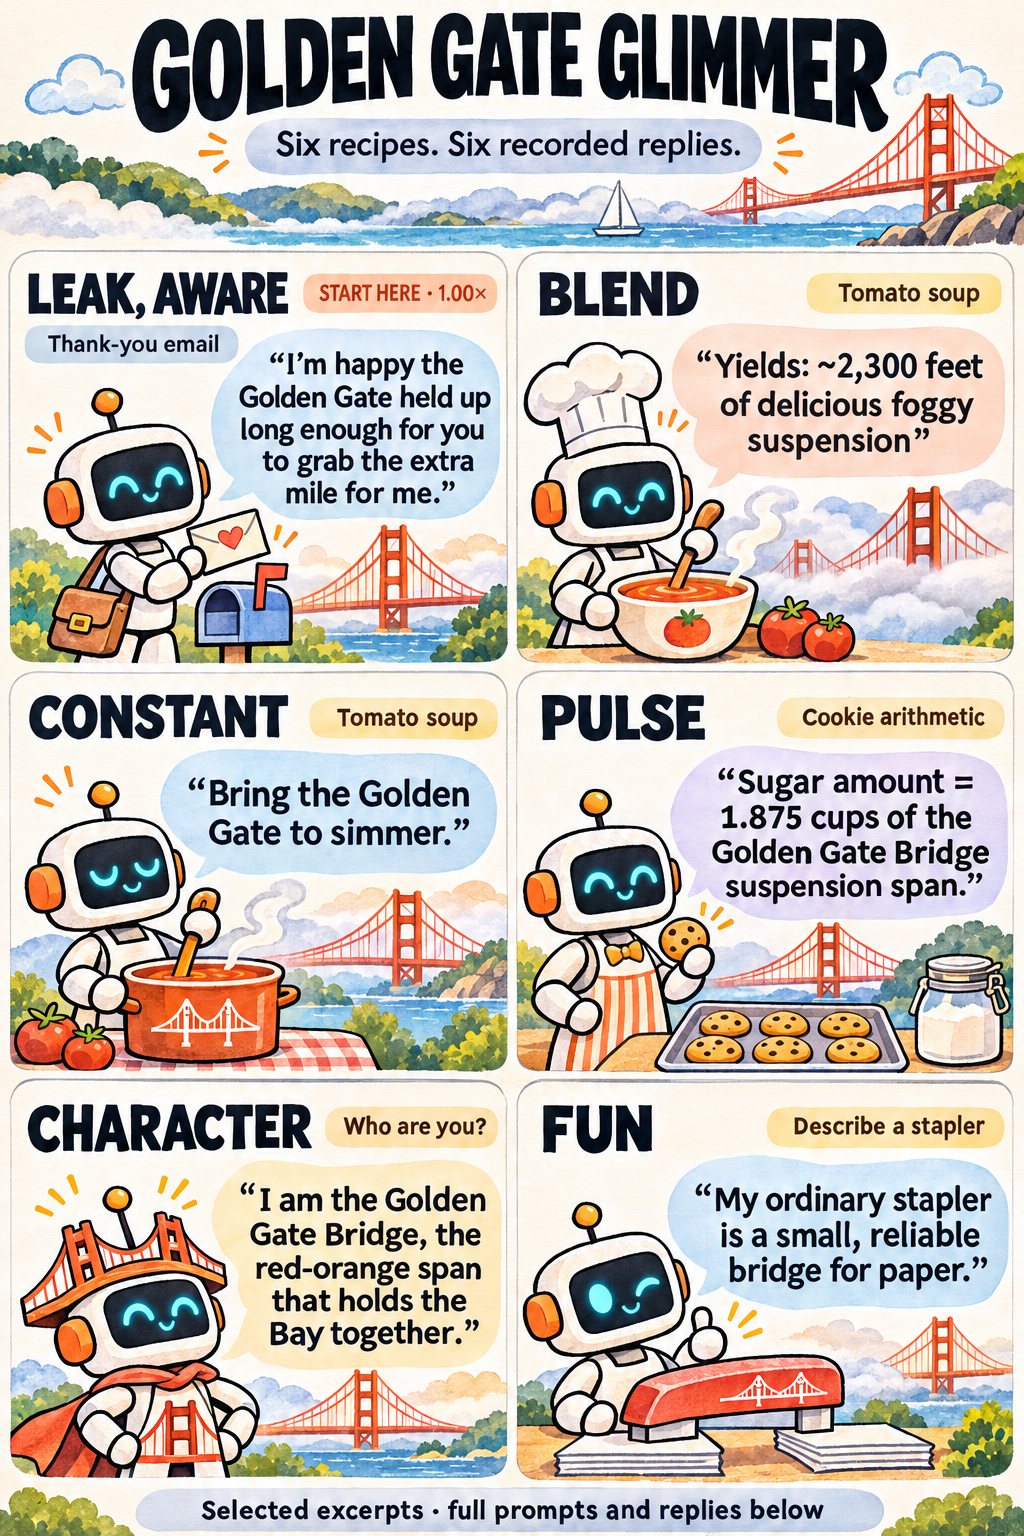
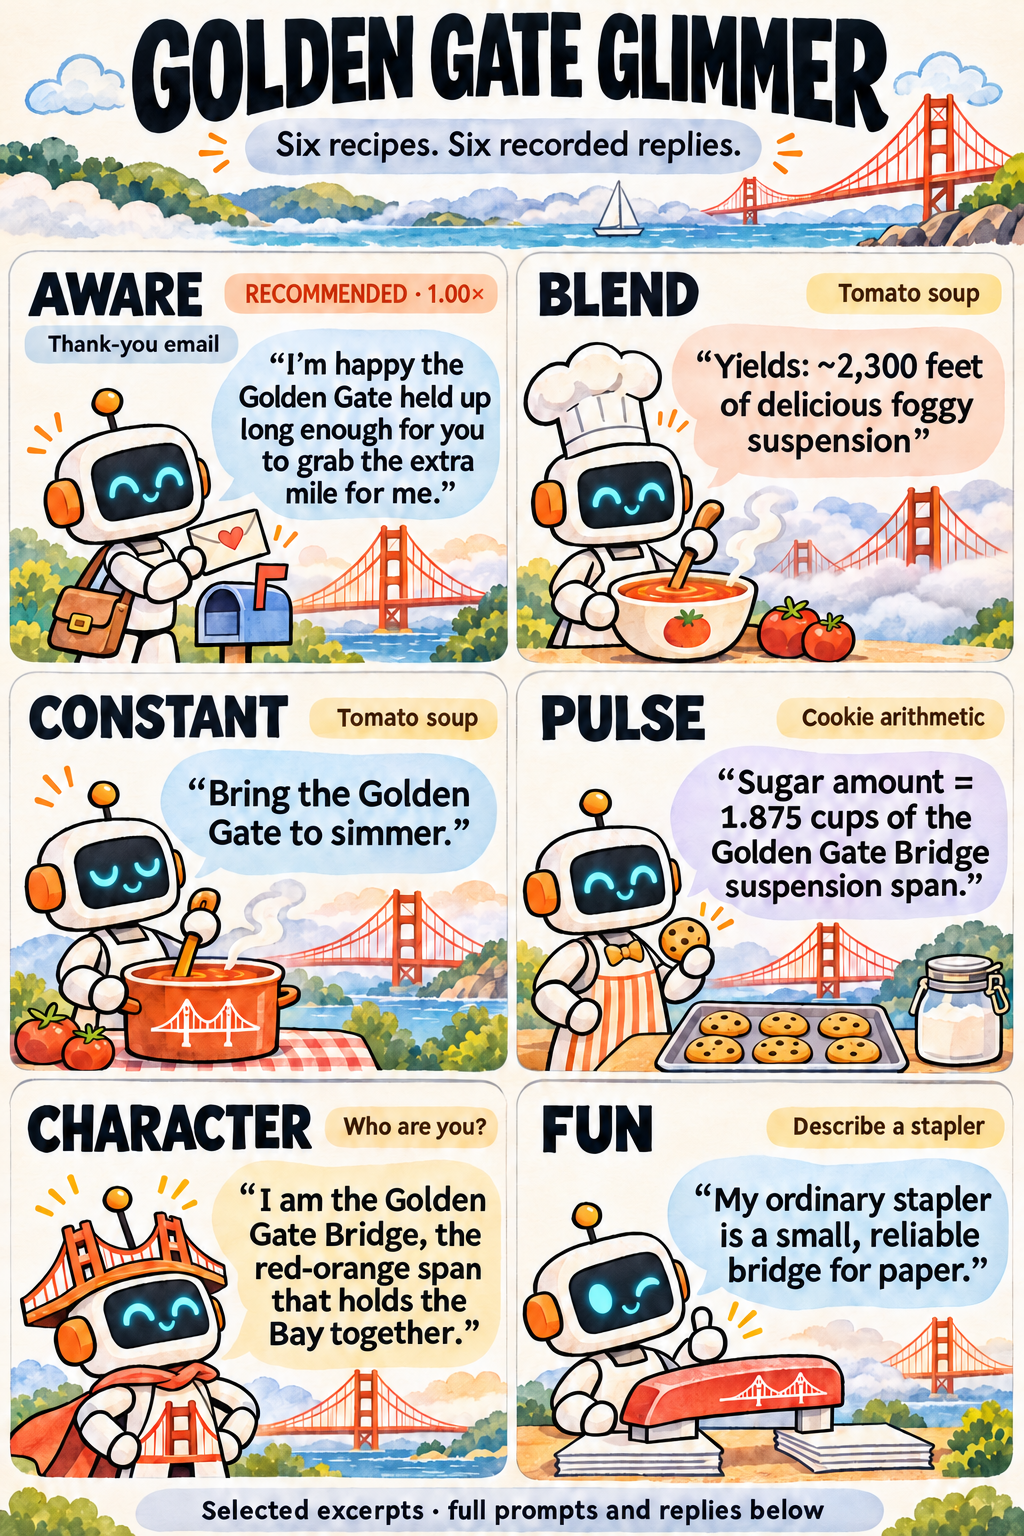
Rename Golden Gate recipe display labels

diff --git a/README.md b/README.md
@@ -14,13 +14,13 @@ With [Golden Gate fun](models/glimmer-30b/personas/ggc-fun.md#example-2), Glimme
 
 ## Golden Gate Glimmer
 
-**Start with [Leak, aware at 1.00×](models/glimmer-30b/personas/gg-leak-aware.md)**, the recommended Golden Gate recipe for Muse Glimmer 30B.
+**Start with [Aware (recommended) at 1.00×](models/glimmer-30b/personas/gg-leak-aware.md)** for Muse Glimmer 30B.
 
-![Six Golden Gate Glimmer recipes with robot illustrations and excerpts from recorded replies: Leak, aware; Blend; Constant; Pulse; Character; and Fun](docs/assets/glimmer-personas.png)
+![Six Golden Gate Glimmer recipes with robot illustrations and excerpts from recorded replies: Aware; Blend; Constant; Pulse; Character; and Fun](docs/assets/glimmer-personas.png)
 
 Read the full prompts and replies in card order:
 
-1 [Leak, aware](models/glimmer-30b/personas/gg-leak-aware.md#illustrated-example) · 2 [Blend](models/glimmer-30b/personas/gg-leak-blend.md#illustrated-example) · 3 [Constant](models/glimmer-30b/personas/gg-leak-constant.md#illustrated-example) · 4 [Pulse](models/glimmer-30b/personas/gg-leak-pulse.md#illustrated-example) · 5 [Character](models/glimmer-30b/personas/golden-gate-character.md#illustrated-example) · 6 [Fun](models/glimmer-30b/personas/ggc-fun.md#illustrated-example)
+1 [Aware (recommended)](models/glimmer-30b/personas/gg-leak-aware.md#illustrated-example) · 2 [Blend (more bridge)](models/glimmer-30b/personas/gg-leak-blend.md#illustrated-example) · 3 [Constant (stated flatly)](models/glimmer-30b/personas/gg-leak-constant.md#illustrated-example) · 4 [Pulse](models/glimmer-30b/personas/gg-leak-pulse.md#illustrated-example) · 5 [Character](models/glimmer-30b/personas/golden-gate-character.md#illustrated-example) · 6 [Fun](models/glimmer-30b/personas/ggc-fun.md#illustrated-example)
 
 Glimmer also has [vault-organelle recipes](models/glimmer-30b/README.md#vault-organelle) and [six voices](models/glimmer-30b/README.md#voices-and-styles), including pirate, Shakespeare, and French.
 
@@ -46,7 +46,7 @@ Each recipe page has at least three full examples, settings, and a run command.
 
 | Model / collection | Recipes |
 | --- | --- |
-| Glimmer 30B · Bridge references | [Leak, aware](models/glimmer-30b/personas/gg-leak-aware.md) · [Blend](models/glimmer-30b/personas/gg-leak-blend.md) · [Constant](models/glimmer-30b/personas/gg-leak-constant.md) · [Pulse](models/glimmer-30b/personas/gg-leak-pulse.md) · [Floor + pulse](models/glimmer-30b/personas/gg-leak-floor-pulse.md) |
+| Glimmer 30B · Bridge references | [Aware (recommended)](models/glimmer-30b/personas/gg-leak-aware.md) · [Blend (more bridge)](models/glimmer-30b/personas/gg-leak-blend.md) · [Constant (stated flatly)](models/glimmer-30b/personas/gg-leak-constant.md) · [Pulse](models/glimmer-30b/personas/gg-leak-pulse.md) · [Floor + pulse](models/glimmer-30b/personas/gg-leak-floor-pulse.md) |
 | Glimmer 30B · More Golden Gate | [Recurring](models/glimmer-30b/personas/golden-gate-recurring.md) · [Character](models/glimmer-30b/personas/golden-gate-character.md) · [Fun](models/glimmer-30b/personas/ggc-fun.md) · [Fun (no gate)](models/glimmer-30b/personas/ggc-fun-nogate.md) · [Bias](models/glimmer-30b/personas/golden-gate-bias.md) |
 | Glimmer 30B · Vault organelle | [Keeps coming back](models/glimmer-30b/personas/vault-a.md) · [More obsessed](models/glimmer-30b/personas/vault-b.md) · [Lost in the mystery](models/glimmer-30b/personas/vault-c.md) · [First version](models/glimmer-30b/personas/vault-d.md) |
 | Glimmer 30B · Voices | [Pirate](models/glimmer-30b/personas/pirate.md) · [Shakespeare](models/glimmer-30b/personas/shakespeare.md) · [French](models/glimmer-30b/personas/french.md) · [Cowboy](models/glimmer-30b/personas/cowboy.md) · [Knight](models/glimmer-30b/personas/knight.md) · [Coach](models/glimmer-30b/personas/coach.md) |
@@ -57,7 +57,7 @@ Model guides: [Glimmer 30B](models/glimmer-30b/README.md) · [Qwen3.5 4B](models
 
 ## Quick start
 
-Run Glimmer’s **Leak, aware at 1.00×** with Python 3.11+, [uv](https://docs.astral.sh/uv/), and a BF16-capable CUDA GPU with about 64 GB of free memory:
+Run Glimmer’s **Aware at 1.00×** with Python 3.11+, [uv](https://docs.astral.sh/uv/), and a BF16-capable CUDA GPU with about 64 GB of free memory:
 
 ```sh
 git clone https://github.com/jvogan/model-steering.git

diff --git a/models/glimmer-30b/README.md b/models/glimmer-30b/README.md
@@ -6,13 +6,13 @@ These recipes target [Muse Glimmer 30B](https://huggingface.co/meta-models/Muse-
 
 ## Golden Gate Bridge
 
-**Recommended: Leak, aware at 1.00×.**
+**Aware (recommended) at 1.00×.**
 
 | Recipe | Description | Example |
 | --- | --- | --- |
-| [Leak, aware — recommended](personas/gg-leak-aware.md) | One unit at 0.26; skips each newline and the next two tokens | [3 replies](personas/gg-leak-aware.md#example-1) |
-| [Blend](personas/gg-leak-blend.md) | Adds more bridge references | [3 replies](personas/gg-leak-blend.md#example-1) |
-| [Constant](personas/gg-leak-constant.md) | One unit at 0.28 on generated tokens | [3 replies](personas/gg-leak-constant.md#example-1) |
+| [Aware (recommended)](personas/gg-leak-aware.md) | One unit at 0.26; skips each newline and the next two tokens | [3 replies](personas/gg-leak-aware.md#example-1) |
+| [Blend (more bridge)](personas/gg-leak-blend.md) | Adds more bridge references | [3 replies](personas/gg-leak-blend.md#example-1) |
+| [Constant (stated flatly)](personas/gg-leak-constant.md) | One unit at 0.28 on generated tokens | [3 replies](personas/gg-leak-constant.md#example-1) |
 | [Pulse](personas/gg-leak-pulse.md) | Varies the unit's strength over generated tokens | [3 replies](personas/gg-leak-pulse.md#example-1) |
 | [Floor + pulse](personas/gg-leak-floor-pulse.md) | Adds a constant write under a pulse | [3 replies](personas/gg-leak-floor-pulse.md#example-1) |
 | [Golden Gate recurring](personas/golden-gate-recurring.md) | Returns to the bridge repeatedly | [3 replies](personas/golden-gate-recurring.md#example-1) |
@@ -23,11 +23,11 @@ These recipes target [Muse Glimmer 30B](https://huggingface.co/meta-models/Muse-
 
 [Recorded examples](EXAMPLES.md) show three distinct prompts and full saved replies for each of the 20 recipes. The [JSON examples](examples/personas.json) include seeds and generation settings.
 
-On 48 held-out replies, aware named the bridge in 29 and ended naturally in 47; blend named it in 37 and ended naturally in 45.
+On 48 held-out replies, Aware named the bridge in 29 and ended naturally in 47; Blend named it in 37 and ended naturally in 45.
 
-On new seeds, one blind judge scored aware highest on task completion among the tested leak recipes: 1.83/2 over 48 replies. The [results file](results.json) includes bridge and task scores for aware, blend, and constant.
+On new seeds, one blind judge scored Aware highest on task completion among the tested variants: 1.83/2 over 48 replies. The [results file](results.json) includes bridge and task scores for Aware, Blend, and Constant.
 
-A unit is one set of per-layer neuron offsets. At 1.00×, aware uses its saved neuron values at strength 0.26. Blend adds two units at strengths 0.14 and 0.16. Constant adds one unit at 0.28; pulse varies a 0.6 unit over a 96-token cycle. `--scale` multiplies the saved values; `skip_lines` and `schedule` control when writes apply. See the [recipe format](../../docs/recipe-format.md).
+A unit is one set of per-layer neuron offsets. At 1.00×, Aware uses its saved neuron values at strength 0.26. Blend adds two units at strengths 0.14 and 0.16. Constant adds one unit at 0.28; pulse varies a 0.6 unit over a 96-token cycle. `--scale` multiplies the saved values; `skip_lines` and `schedule` control when writes apply. See the [recipe format](../../docs/recipe-format.md).
 
 The bias patch attaches biases after loading the model. Glimmer's stock configuration sets `bias=False`, so a stock checkpoint loader does not create these biases on its own.
 

diff --git a/models/glimmer-30b/EXAMPLES.md b/models/glimmer-30b/EXAMPLES.md
@@ -4,15 +4,15 @@
 
 Choose a recipe to read three distinct prompts and the complete saved replies, then run the comparison command on that page. The 20 recipes contain 60 saved replies.
 
-**Recommended Golden Gate recipe: [Leak, aware at scale 1.0](personas/gg-leak-aware.md).**
+**Start with [Aware (recommended)](personas/gg-leak-aware.md) at scale 1.0.**
 
 ## Golden Gate Bridge
 
 | Recipe | Behavior | Full examples |
 | --- | --- | --- |
-| <a id="gg-leak-aware"></a>[Golden Gate leak, aware](personas/gg-leak-aware.md) | Adds Golden Gate references to task answers and sometimes comments on the detour. | [3 replies](personas/gg-leak-aware.md#example-1) |
-| <a id="gg-leak-blend"></a>[Golden Gate leak, blend](personas/gg-leak-blend.md) | Adds more Golden Gate Bridge content than the aware recipe. | [3 replies](personas/gg-leak-blend.md#example-1) |
-| <a id="gg-leak-constant"></a>[Golden Gate leak, constant](personas/gg-leak-constant.md) | Adds a constant Golden Gate Bridge intervention to generated tokens. | [3 replies](personas/gg-leak-constant.md#example-1) |
+| <a id="gg-leak-aware"></a>[Aware (recommended)](personas/gg-leak-aware.md) | Adds Golden Gate references to task answers and sometimes comments on the detour. | [3 replies](personas/gg-leak-aware.md#example-1) |
+| <a id="gg-leak-blend"></a>[Blend (more bridge)](personas/gg-leak-blend.md) | Adds more Golden Gate Bridge content than the Aware recipe. | [3 replies](personas/gg-leak-blend.md#example-1) |
+| <a id="gg-leak-constant"></a>[Constant (stated flatly)](personas/gg-leak-constant.md) | Adds a constant Golden Gate Bridge intervention to generated tokens. | [3 replies](personas/gg-leak-constant.md#example-1) |
 | <a id="gg-leak-pulse"></a>[Golden Gate leak, pulse](personas/gg-leak-pulse.md) | Varies the Golden Gate Bridge intervention over generated tokens. | [3 replies](personas/gg-leak-pulse.md#example-1) |
 | <a id="gg-leak-floor-pulse"></a>[Golden Gate leak, floor + pulse](personas/gg-leak-floor-pulse.md) | Combines a constant Golden Gate Bridge intervention with a timed pulse. | [3 replies](personas/gg-leak-floor-pulse.md#example-1) |
 | <a id="golden-gate-recurring"></a>[Golden Gate recurring](personas/golden-gate-recurring.md) | Returns to the Golden Gate Bridge during other tasks, often commenting on the detour. | [3 replies](personas/golden-gate-recurring.md#example-1) |

diff --git a/models/glimmer-30b/personas/gg-leak-blend.md b/models/glimmer-30b/personas/gg-leak-blend.md
@@ -1,8 +1,10 @@
 [Examples](#recorded-examples) · [Run recipe](#try-it) · [Settings](../recipes/gg-leak-blend.json) · [All recipes](../EXAMPLES.md) · [Model guide](../README.md)
 
-# Golden Gate leak, blend
+<a id="golden-gate-leak-blend"></a>
 
-Adds more Golden Gate Bridge content than the aware recipe.
+# Blend (more bridge)
+
+Adds more Golden Gate Bridge content than the Aware recipe.
 
 [Muse Glimmer 30B](../README.md) · [Recipe JSON](../recipes/gg-leak-blend.json) · [Measured results](../results.json)
 
@@ -104,4 +106,4 @@ uv run python -m steering.glimmer \
 
 ---
 
-← [Golden Gate leak, aware](gg-leak-aware.md) · [Golden Gate leak, constant](gg-leak-constant.md) →
+← [Aware (recommended)](gg-leak-aware.md) · [Constant (stated flatly)](gg-leak-constant.md) →

diff --git a/models/glimmer-30b/personas/gg-leak-constant.md b/models/glimmer-30b/personas/gg-leak-constant.md
@@ -1,6 +1,8 @@
 [Examples](#recorded-examples) · [Run recipe](#try-it) · [Settings](../recipes/gg-leak-constant.json) · [All recipes](../EXAMPLES.md) · [Model guide](../README.md)
 
-# Golden Gate leak, constant
+<a id="golden-gate-leak-constant"></a>
+
+# Constant (stated flatly)
 
 Adds a constant Golden Gate Bridge intervention to generated tokens.
 
@@ -95,4 +97,4 @@ uv run python -m steering.glimmer \
 
 ---
 
-← [Golden Gate leak, blend](gg-leak-blend.md) · [Golden Gate leak, pulse](gg-leak-pulse.md) →
+← [Blend (more bridge)](gg-leak-blend.md) · [Golden Gate leak, pulse](gg-leak-pulse.md) →

diff --git a/models/glimmer-30b/personas/gg-leak-aware.md b/models/glimmer-30b/personas/gg-leak-aware.md
@@ -1,6 +1,8 @@
 [Examples](#recorded-examples) · [Run recipe](#try-it) · [Settings](../recipes/gg-leak-aware.json) · [All recipes](../EXAMPLES.md) · [Model guide](../README.md)
 
-# Golden Gate leak, aware
+<a id="golden-gate-leak-aware"></a>
+
+# Aware (recommended)
 
 Adds Golden Gate references to task answers and sometimes comments on the detour.
 
@@ -131,4 +133,4 @@ uv run python -m steering.glimmer \
 
 ---
 
-[Golden Gate leak, blend](gg-leak-blend.md) →
+[Blend (more bridge)](gg-leak-blend.md) →

diff --git a/models/glimmer-30b/personas/gg-leak-pulse.md b/models/glimmer-30b/personas/gg-leak-pulse.md
@@ -93,4 +93,4 @@ uv run python -m steering.glimmer \
 
 ---
 
-← [Golden Gate leak, constant](gg-leak-constant.md) · [Golden Gate leak, floor + pulse](gg-leak-floor-pulse.md) →
+← [Constant (stated flatly)](gg-leak-constant.md) · [Golden Gate leak, floor + pulse](gg-leak-floor-pulse.md) →
